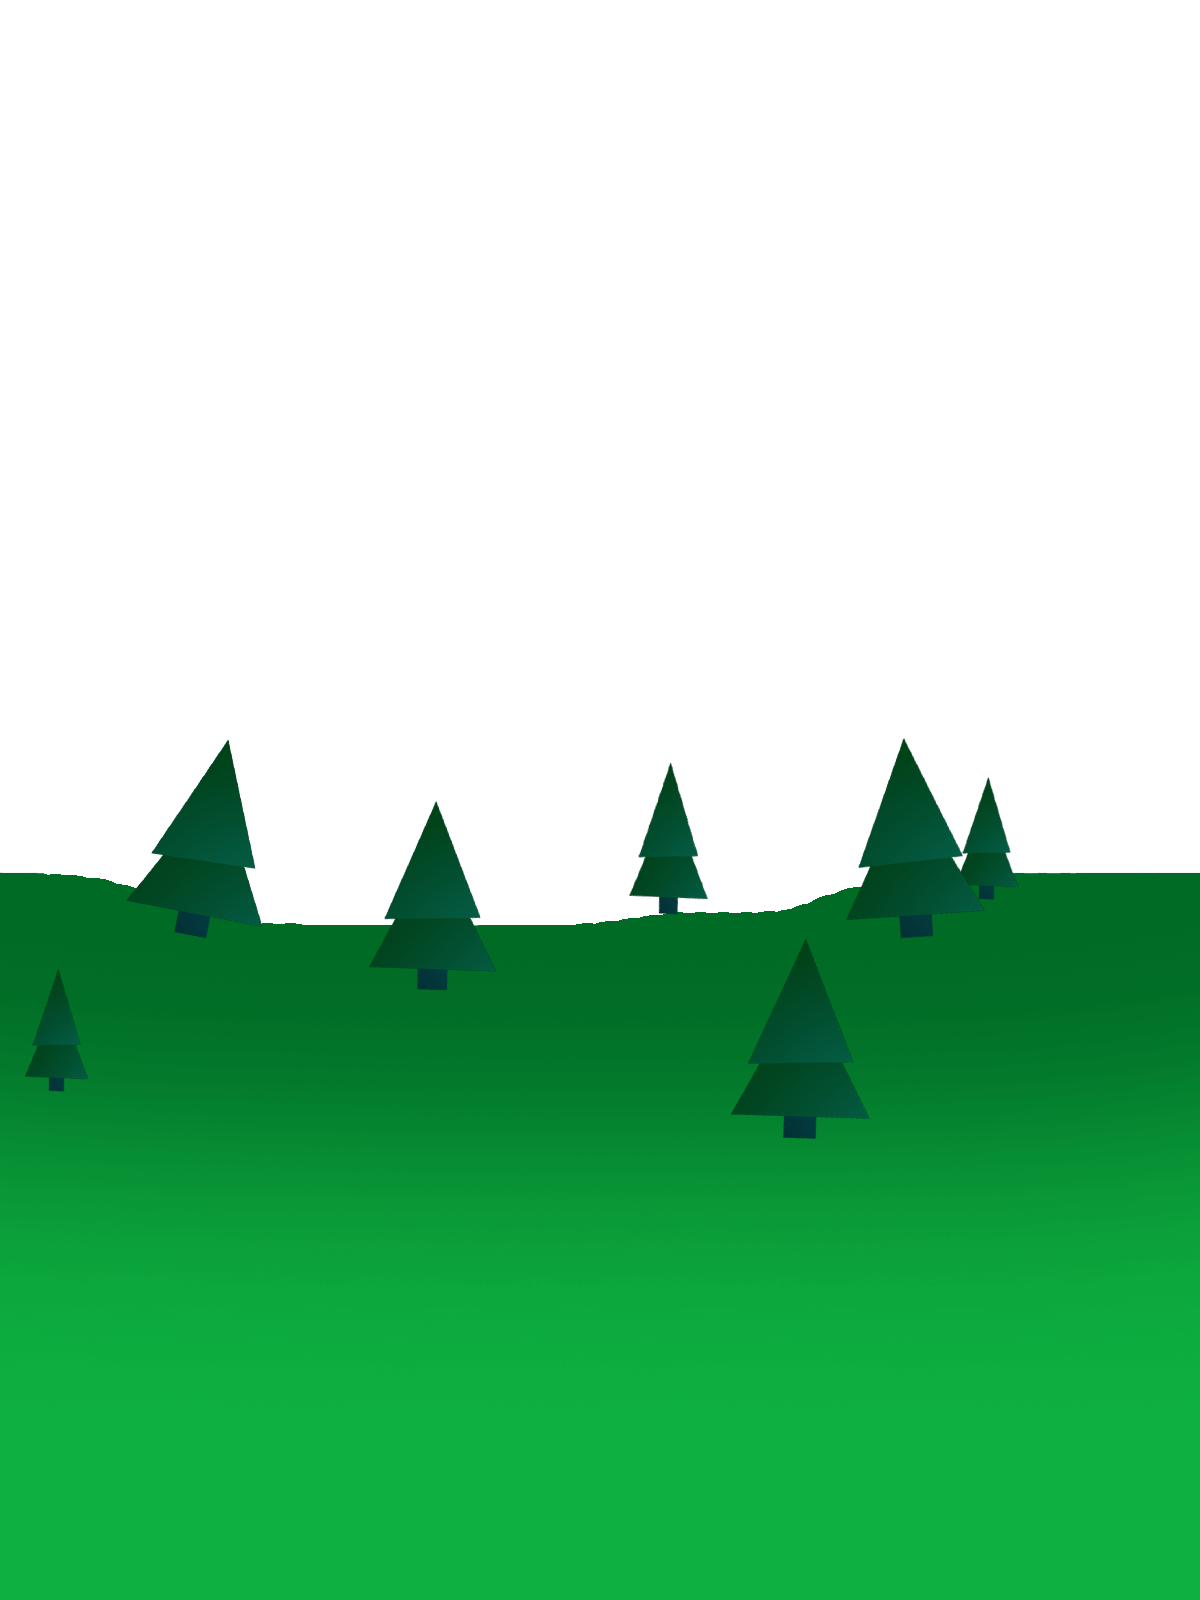
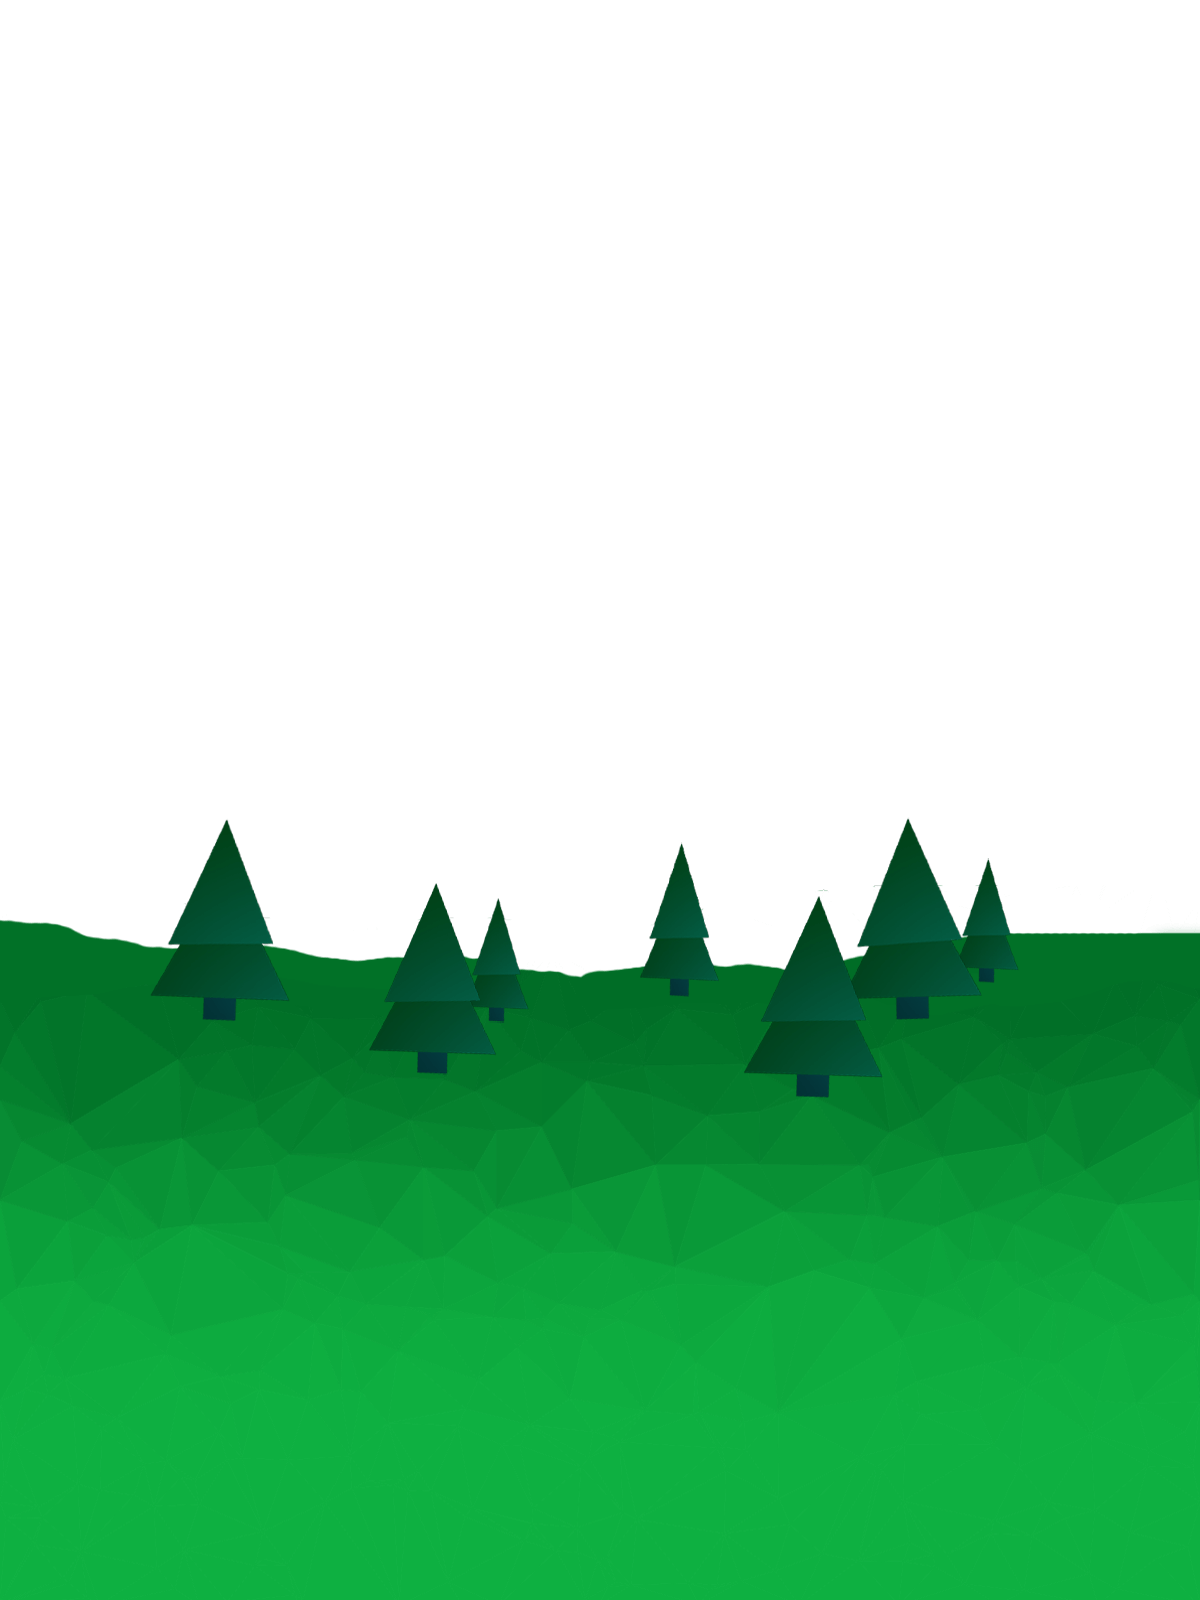
новая трава

Changed region(s): [[0.0, 0.4688, 1.0, 0.7188]]

diff --git a/core/src/ru/alexkulikov/firstfame/background/Grass.java b/core/src/ru/alexkulikov/firstfame/background/Grass.java
@@ -21,11 +21,11 @@ public class Grass extends Actor {
 
     @Override
     public void draw(Batch batch, float parentAlpha) {
-        batch.draw(sprite, sprite.getX(), -4f, scalableY, VIEWPORT_WIDTH);
+        batch.draw(sprite, sprite.getX(), -3.6f, scalableY, VIEWPORT_WIDTH);
     }
 
     public void setSpriteX(float x) {
-        sprite.setBounds(x, -4f, scalableY, VIEWPORT_WIDTH);
+        sprite.setBounds(x, -3.6f, scalableY, VIEWPORT_WIDTH);
     }
 
     public float getSpriteOffset() {
